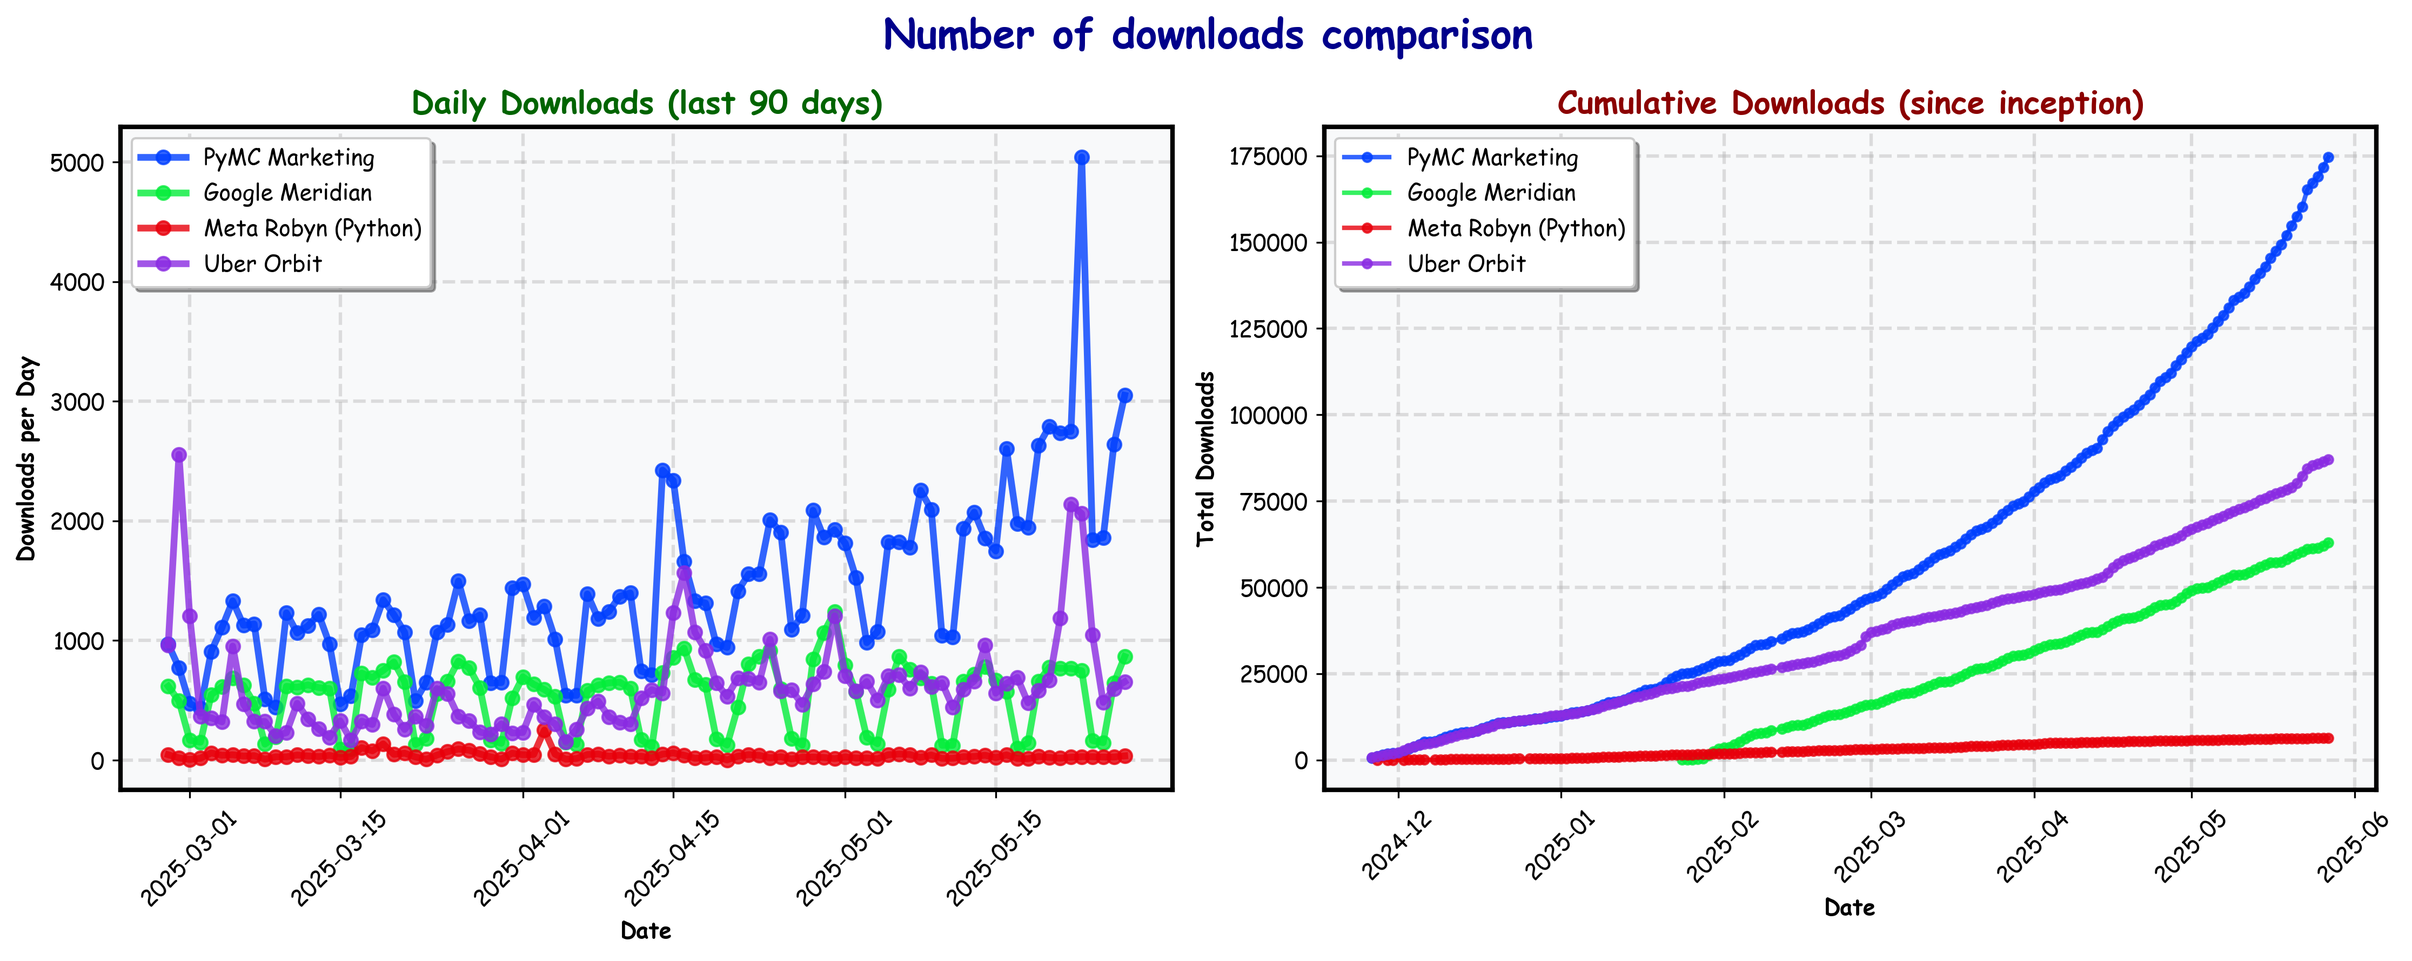
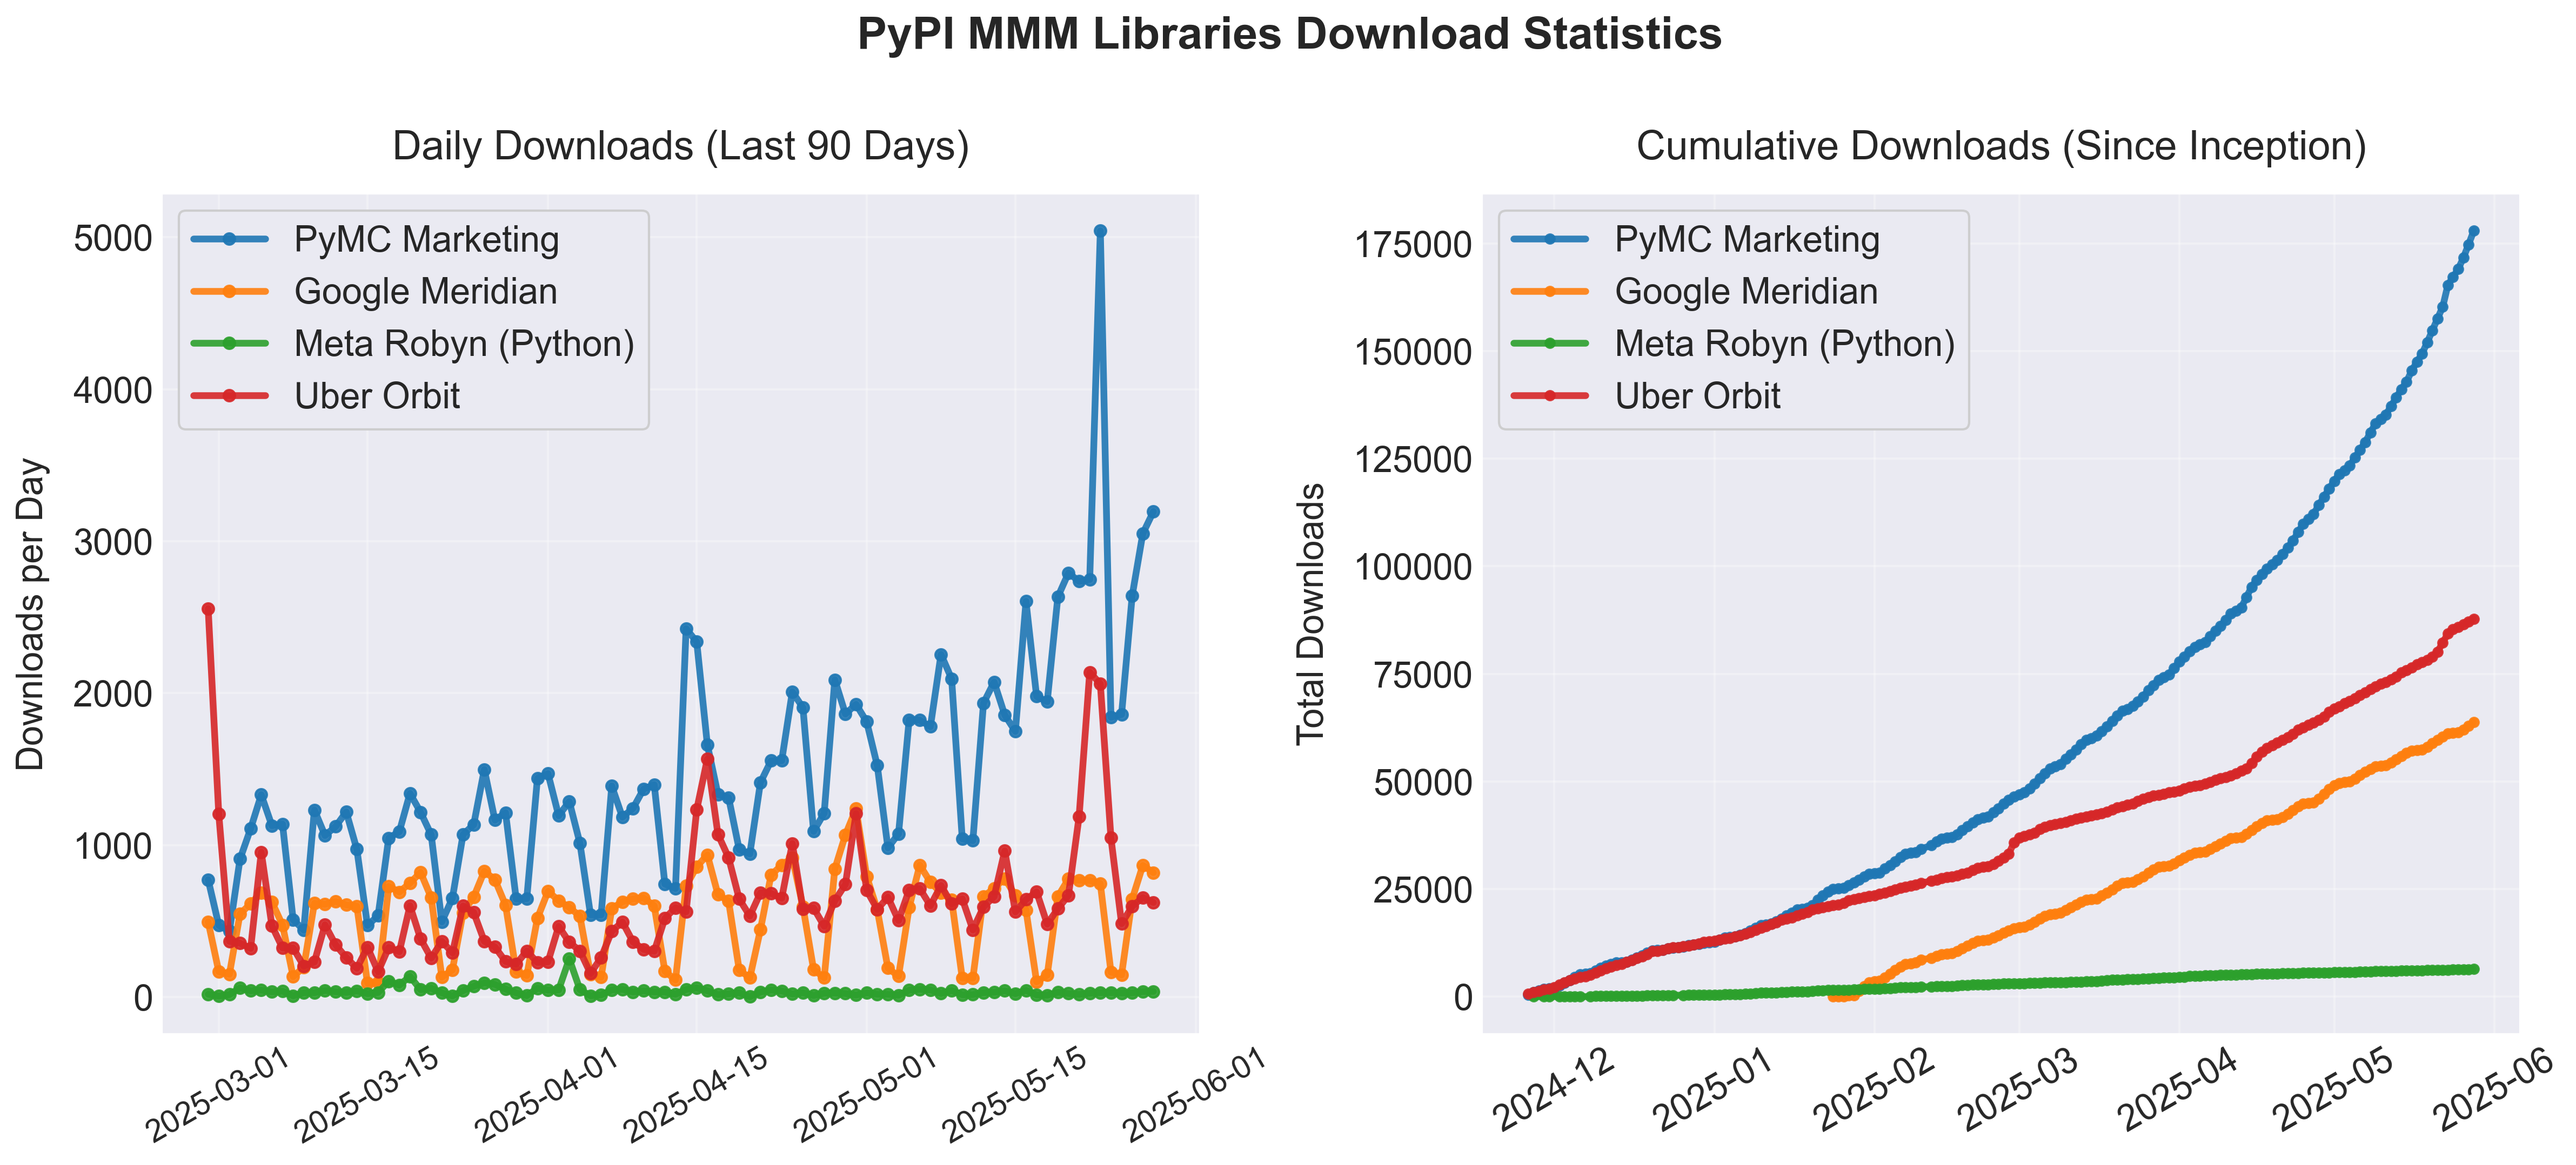
fixed fonts

diff --git a/pypi_mmm_tracker.py b/pypi_mmm_tracker.py
@@ -100,43 +100,60 @@ def create_plots(df, days, cumulative_df):
     if df.empty or cumulative_df.empty:
         print("No data available for visualization")
         return
-    # Set cartoonish style
-    plt.style.use('seaborn-v0_8-bright')
-    plt.rcParams['font.family'] = 'Comic Sans MS'
-    plt.rcParams['axes.linewidth'] = 2
-    plt.rcParams['grid.linewidth'] = 1.5
+
+    # Set modern style using seaborn darkgrid
+    plt.style.use('seaborn-v0_8-darkgrid')
+    plt.rcParams['font.family'] = 'sans-serif'
+    plt.rcParams['axes.linewidth'] = 1.5
+    plt.rcParams['grid.linewidth'] = 1
     plt.rcParams['lines.linewidth'] = 3
-    fig, (ax1, ax2) = plt.subplots(1, 2, figsize=(15, 6))
-    fig.suptitle(f'Number of downloads comparison', fontsize=18, fontweight='bold', color='darkblue')
+    
+    # Create figure with modern aesthetics
+    fig, (ax1, ax2) = plt.subplots(1, 2, figsize=(16, 7), dpi=100)
+    fig.suptitle('PyPI MMM Libraries Download Statistics', 
+                 fontsize=20, fontweight='bold', y=1.02)
+    
     # Left plot: Daily downloads (recent)
     for display_name in df['display_name'].unique():
         package_data = df[df['display_name'] == display_name].copy()
         package_data = package_data.sort_values('date')
         ax1.plot(package_data['date'], package_data['downloads'], 
-                marker='o', markersize=6, label=display_name, linewidth=3, alpha=0.8)
-    ax1.set_title(f'Daily Downloads (last {days} days)', fontsize=14, fontweight='bold', color='darkgreen')
-    ax1.set_xlabel('Date', fontweight='bold')
-    ax1.set_ylabel('Downloads per Day', fontweight='bold')
-    ax1.legend(frameon=True, shadow=True, fancybox=True)
-    ax1.grid(True, alpha=0.4, linestyle='--')
-    ax1.tick_params(axis='x', rotation=45)
-    ax1.set_facecolor('#f8f9fa')
+                marker='.', markersize=10, label=display_name, 
+                linewidth=3, alpha=0.9)
+    
+    ax1.set_title(f'Daily Downloads (Last {days} Days)', 
+                  fontsize=18, fontweight='medium', pad=15)
+    # Remove x-axis label
+    # ax1.set_xlabel('Date', fontsize=11, labelpad=10)
+    ax1.set_ylabel('Downloads per Day', fontsize=16, labelpad=10)
+    ax1.legend(frameon=True, framealpha=0.95, loc='upper left', fontsize=16)
+    ax1.grid(True, alpha=0.3)
+    ax1.tick_params(axis='x', rotation=30, labelsize=14)
+    ax1.tick_params(axis='y', labelsize=16)
+    
     # Right plot: Cumulative downloads since inception
     for display_name in cumulative_df['display_name'].unique():
         package_data = cumulative_df[cumulative_df['display_name'] == display_name].copy()
         package_data = package_data.sort_values('date')
         package_data['cumulative'] = package_data['downloads'].cumsum()
         ax2.plot(package_data['date'], package_data['cumulative'], 
-                marker='o', markersize=4, label=display_name, linewidth=2, alpha=0.8)
-    ax2.set_title('Cumulative Downloads (since inception)', fontsize=14, fontweight='bold', color='darkred')
-    ax2.set_xlabel('Date', fontweight='bold')
-    ax2.set_ylabel('Total Downloads', fontweight='bold')
-    ax2.legend(frameon=True, shadow=True, fancybox=True)
-    ax2.grid(True, alpha=0.4, linestyle='--')
-    ax2.tick_params(axis='x', rotation=45)
-    ax2.set_facecolor('#f8f9fa')
+                marker='.', markersize=8, label=display_name, 
+                linewidth=3, alpha=0.9)
+    
+    ax2.set_title('Cumulative Downloads (Since Inception)', 
+                  fontsize=18, fontweight='medium', pad=15)
+    # Remove x-axis label
+    # ax2.set_xlabel('Date', fontsize=11, labelpad=10)
+    ax2.set_ylabel('Total Downloads', fontsize=16, labelpad=10)
+    ax2.legend(frameon=True, framealpha=0.95, loc='upper left', fontsize=16)
+    ax2.grid(True, alpha=0.3)
+    ax2.tick_params(axis='x', rotation=30, labelsize=16)
+    ax2.tick_params(axis='y', labelsize=16)
+    
+    # Adjust layout and save
     plt.tight_layout()
-    plt.savefig('mmm_downloads_analysis.png', dpi=300, bbox_inches='tight')
+    plt.savefig('mmm_downloads_analysis.png', dpi=300, bbox_inches='tight', 
+                facecolor='white', edgecolor='none')
     print(f"📊 Visualization saved as 'mmm_downloads_analysis.png'")
 
 def save_data(df):
